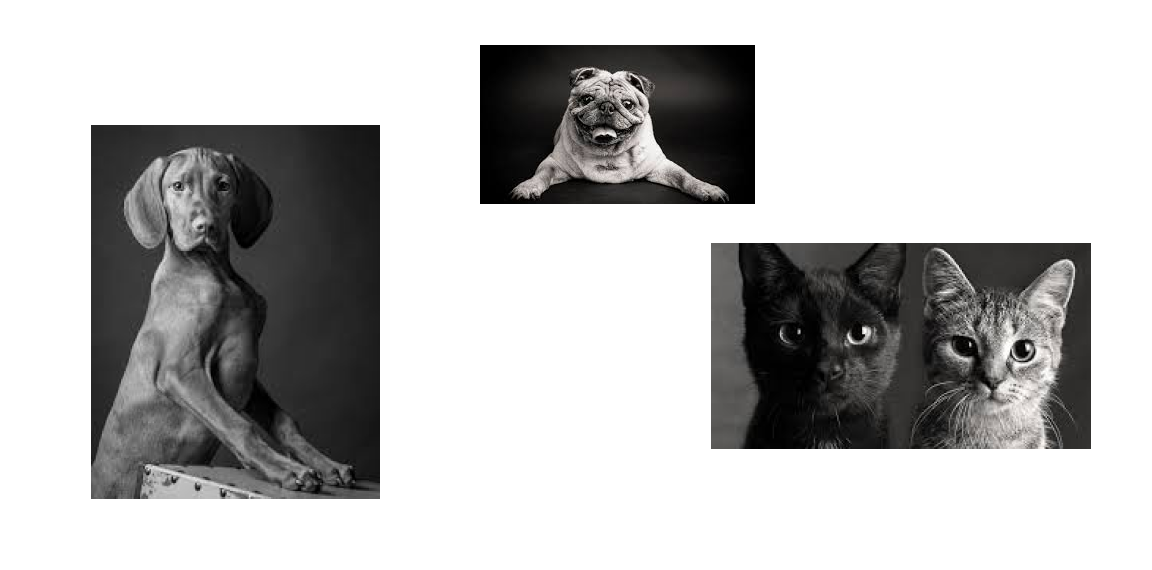
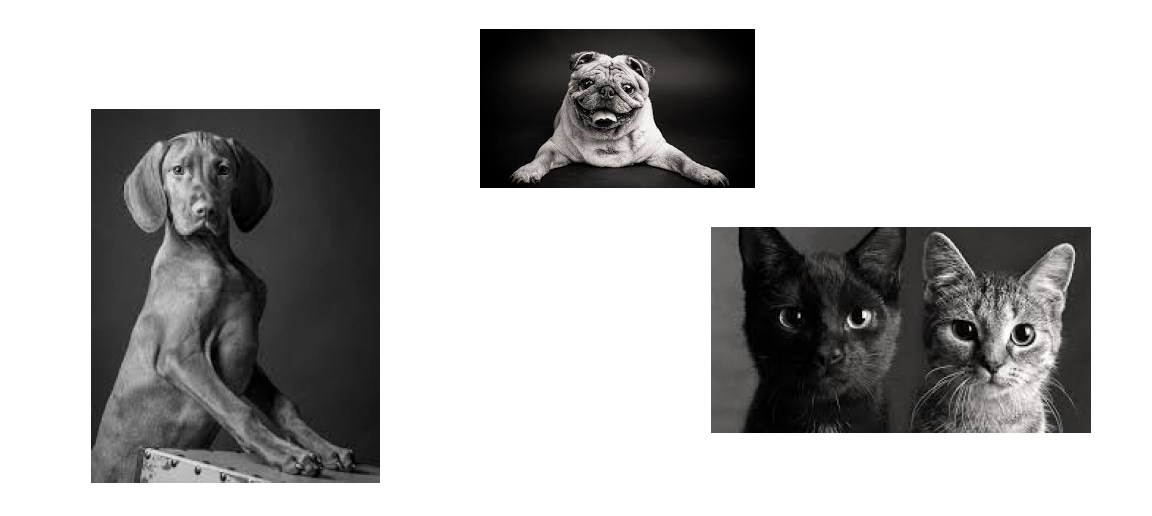
update about image

diff --git a/color.css b/color.css
@@ -156,38 +156,9 @@ ul#menu li {
 }
 
 .bg {
-    margin: 30px 0;
-    padding: 20px;
+    padding: 20px 0;
     background-color: #F0EDE8;
-    position: relative;
-}
-
-.img1 {
-    background-color: #1D1D1F;
-    width: 290px;
-    height: 380px;
-    margin: 100px 0 50px 60px;
-    /*position: absolute;
-    top: 100px;
-    left: 60px;*/
-}
-
-.img2 {
-    background-color: #1D1D1F;
-    width: 275px;
-    height: 160px;
-    top: 50px;
-    left: 470px;
-    position: absolute;
-}
-
-.img3 {
-    background-color: #1D1D1F;
-    width: 380px;
-    height: 200px;
-    top: 250px;
-    left: 700px;
-    position: absolute;
+    text-align: center;
 }
 
 footer {

diff --git a/about.html b/about.html
@@ -121,7 +121,7 @@
             <div class="columns">
                 <div class="column">
                     <div class="bg">
-                        <img src="index1.png">
+                        <img src="index1.png" width="90%" height="90%">
                     </div>
                 </div>
             </div>
